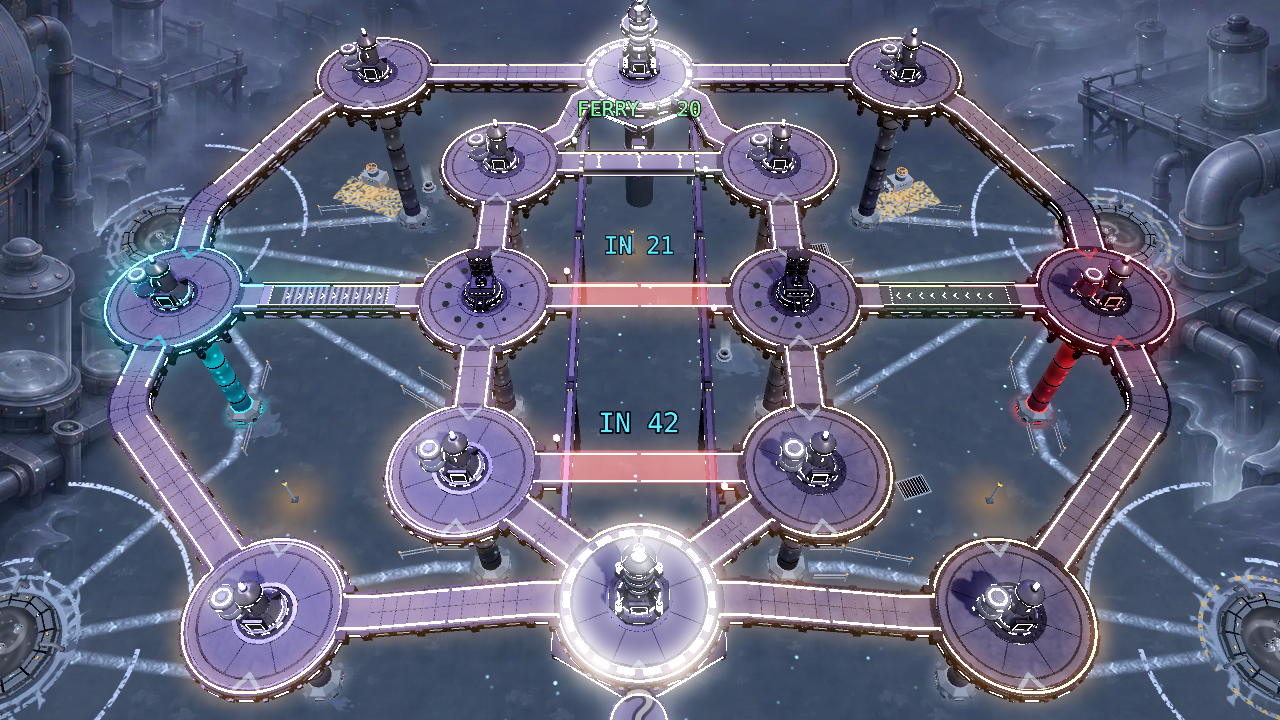
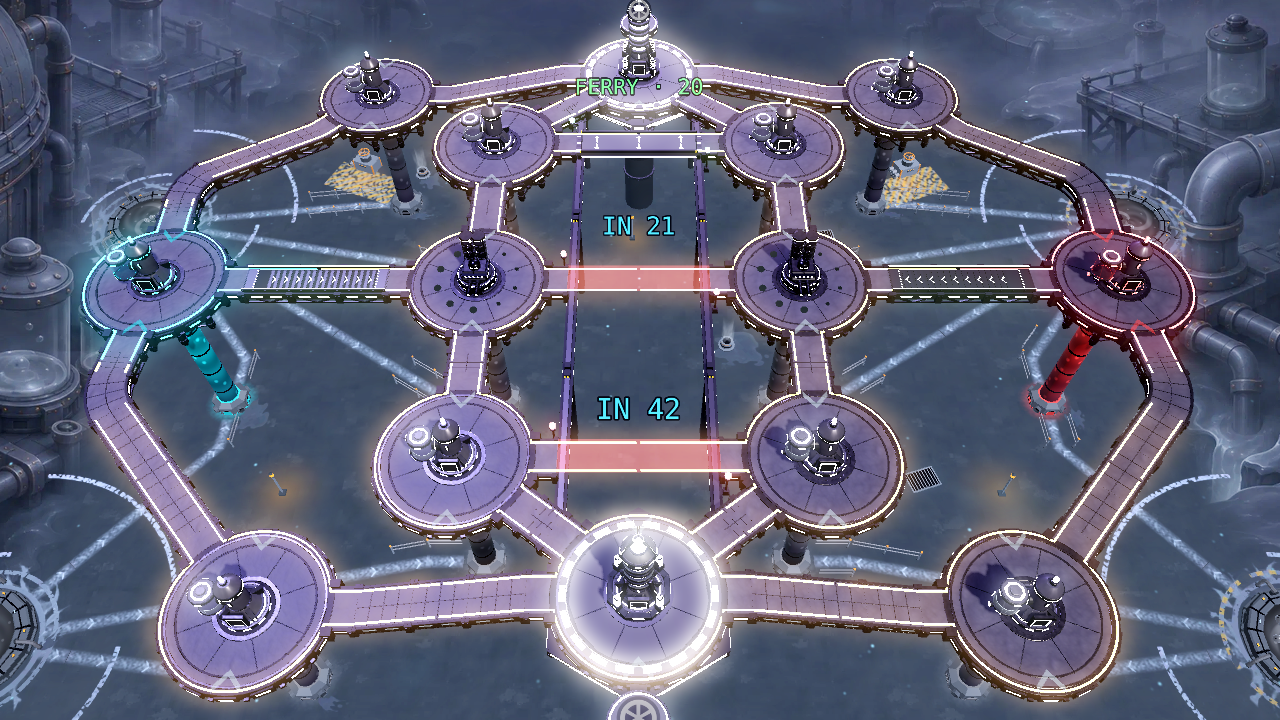
R-01 Strait: top laser relay mirrors the bottom (Daniele 2026-11-09: map needs to be symmetric)
packs/r_maps.py (Drive, Tools/MapBuilder): T / Pu now base -1 / level -1 like B / Pd. Re-baked: verify 0 clashes / 0 short /
0 off_length; test_maps4 8059 ALL PASSED; phone_fit R-01 50.8 pt at pitch 54.

diff --git a/CHANGELOG.md b/CHANGELOG.md
@@ -7,6 +7,8 @@
     x0.3 against - until it reaches its target, any of it falls, or a belt the other way replaces the push. The line wears a speed trail
     while it moves at a belt's speed (green streaks fast, blue dashes slow); AI arrival times count the carried speed.
     (Route choice stays belt-blind as before.)
+  - R-01 STRAIT symmetric (Daniele 2026-11-09, Desk laser-relay-decks): the top laser relay and its outer roads now mirror the bottom ones
+    (stone on the bank, outer roads lowered); the top's raised stone and its short S-ramp to the bank are gone. Re-baked from packs/r_maps.py.
 
 - **0.23.27-demo12** - 2026-11-10 (demo-world, staging/demo/): HUD only (ui-neon-apply 8c2dfef, 43 files under assets/ui + HUD scripts, no sim change). SEND tank = one evenly scaled picture with clipped goo, level marks, no readout, 100 % under the cap, HUD_K_MAX 1.6 for foldables. NEON-RESTYLE delivery applied 1:1: steel frames with cyan spill, skill ring freed, node card frame, radial slices from the delivered PNGs, neon badge rims; desktop skill-plate fixes.
 - **0.23.27-demo11** - 2026-11-09 (demo-world, staging/demo/): demo rules pass (demo-rules-pass 88da364): ferry docked 20 s + one travelling hull; laser relay replaces the lift nodes on R-01 / R-06 / R-09 / R-12 (maps re-baked); floor tube props off; conveyor and Googatling probes with no sim change. Known follow-up: AI fog / portal / evac on the new R-01 (test_powers_ai 3 fails, decided 2026-11-09).
